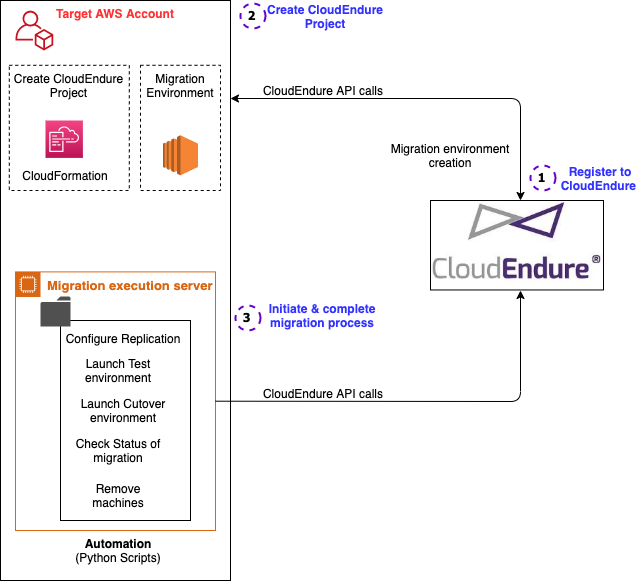
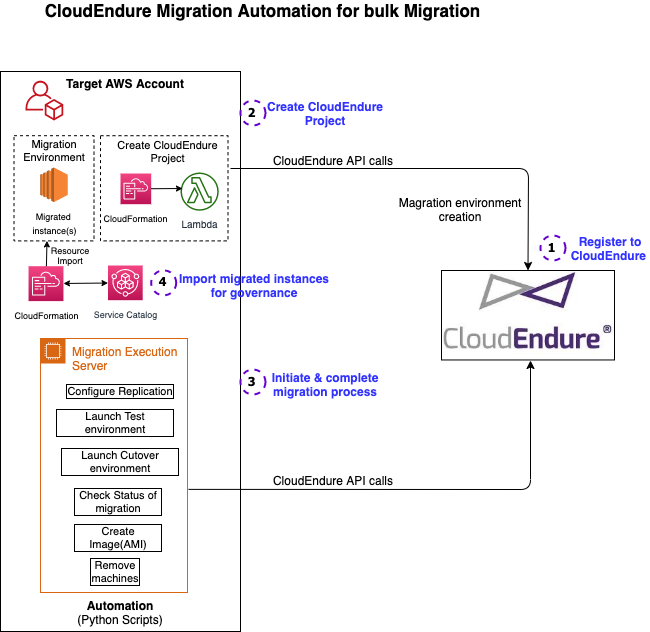
added migrated instance adoption in to CloudFormation functionality

Changed region(s): [[0.0, 0.0, 1.0, 1.0], [0.4062, 0.7435, 0.625, 0.7745], [0.0625, 0.6506, 0.0938, 0.6816]]

diff --git a/CreateImages.py b/CreateImages.py
@@ -1,0 +1,104 @@
+#Copyright 2008-2019 Amazon.com, Inc. or its affiliates. All Rights Reserved.
+
+#Permission is hereby granted, free of charge, to any person obtaining a copy of this
+#software and associated documentation files (the "Software"), to deal in the Software
+#without restriction, including without limitation the rights to use, copy, modify,
+#merge, publish, distribute, sublicense, and/or sell copies of the Software, and to
+#permit persons to whom the Software is furnished to do so.
+
+#THE SOFTWARE IS PROVIDED "AS IS", WITHOUT WARRANTY OF ANY KIND, EXPRESS OR IMPLIED,
+#INCLUDING BUT NOT LIMITED TO THE WARRANTIES OF MERCHANTABILITY, FITNESS FOR A
+#PARTICULAR PURPOSE AND NONINFRINGEMENT. IN NO EVENT SHALL THE AUTHORS OR COPYRIGHT
+#HOLDERS BE LIABLE FOR ANY CLAIM, DAMAGES OR OTHER LIABILITY, WHETHER IN AN ACTION
+#OF CONTRACT, TORT OR OTHERWISE, ARISING FROM, OUT OF OR IN CONNECTION WITH THE
+#SOFTWARE OR THE USE OR OTHER DEALINGS IN THE SOFTWARE.
+
+from __future__ import print_function
+import sys
+import requests
+import json
+import yaml
+import os
+import boto3
+import datetime
+from botocore.exceptions import ClientError
+
+def createimage(session, headers, endpoint, HOST, projectname, configfile, region):
+           
+    r = requests.get(HOST + endpoint.format('projects'), headers=headers, cookies=session)
+    if r.status_code != 200:
+        print("ERROR: Failed to fetch the project....")
+        sys.exit(1)
+    try:
+        # Get Project ID
+        projects = json.loads(r.text)["items"]
+        project_exist = False
+        for project in projects:
+            if project["name"] == projectname:
+               project_id = project["id"]
+               project_exist = True
+        if project_exist == False:
+            print("ERROR: Project Name does not exist....")
+            sys.exit(2)
+    except:
+        print(sys.exc_info())
+        sys.exit(6)
+        
+    with open(os.path.join(sys.path[0], configfile), 'r') as ymlfile:
+     config = yaml.load(ymlfile, yaml.FullLoader)
+    
+    migration_wave = config["project"]["waves"]
+              
+    m = requests.get(HOST + endpoint.format('projects/{}/machines').format(project_id), headers=headers, cookies=session)
+    
+    data = json.loads(m.text)["items"]
+    machinelist = {}
+    machine_exist = False
+    
+    for machine in data:
+      machinelist[machine['id']] = machine['sourceProperties']['name']
+      machine_name=machine['sourceProperties']['name']
+      r_id=machine['replica']
+      
+      r = requests.get(HOST + endpoint.format('projects/{}/replicas/{}').format(project_id, r_id), headers=headers, cookies=session)
+      replicas = json.loads(r.text)
+      instance_id = replicas['machineCloudId']
+      machine_exist = True
+      try:
+          ec2_client = boto3.client("ec2", region_name=region)
+      except ClientError as e:
+          print("Unexpected error(Make sure you have entered correct AWS region & AWS credentials available on machine): %s" % e)
+          return
+      
+      timestamp = datetime.datetime.utcnow().strftime('%Y%m%d')
+      try:
+          image = ec2_client.create_image(InstanceId=instance_id, Name=machine_name+'-'+timestamp, Description='Image of CloudEndure migrated instance: '+machine_name,
+                                         NoReboot=True,
+                                         TagSpecifications=[
+                                            {
+                                                'ResourceType': 'image',
+                                                'Tags': [
+                                                    {
+                                                        'Key': 'Name',
+                                                        'Value': machine_name
+                                                    },
+                                                    {
+                                                        'Key': 'instance',
+                                                        'Value': instance_id
+                                                    },
+                                                    {
+                                                        'Key': 'migration-wave',
+                                                        'Value': migration_wave
+                                                    },                                                
+                                                ]
+                                            },
+                                        ]
+                                        )
+          print("Image creation initiated for "+ machine_name + " with image id: " + image['ImageId'])  
+      except:
+          print("Create AMI failed")
+      
+    if machine_exist == False:
+        print ('There are no machines launched in cutover mode. No instances available to create image.')
+        return
+          

diff --git a/CloudEndure.py b/CloudEndure.py
@@ -18,6 +18,7 @@ import sys
 import argparse
 import Machine
 import UpdateProject
+import CreateImages
 import requests
 import json
 import StatusCheck
@@ -66,6 +67,8 @@ def main(arguments):
     parser.add_argument('--statuscheck', default="No")
     parser.add_argument('--cleanup', default="No")
     parser.add_argument('--dryrun', default="No")
+    parser.add_argument('--createimage', default="No")
+    parser.add_argument('--region', default="")    
     args = parser.parse_args(arguments)
     
     print("************************")
@@ -85,7 +88,19 @@ def main(arguments):
     if args.dryrun != "No" and args.dryrun != "Yes":
         print("ERROR: Please type '--dryrun Yes' if you want to validate your production YAML file....")
         sys.exit(3)
-    
+
+    if args.createimage != "No" and args.createimage != "Yes":
+        print("ERROR: Please type '--createimage Yes' if you want to create Amazon EC2 Images(AMI) of the target instances....")
+        sys.exit(5)
+
+    if  args.createimage=="Yes" and args.region =="":
+        print("ERROR: Please provide valid ('--region <aws_region_name>') aws region(ex. us-west-1) to create EC2 Images(AMI) of the target instances....")
+        sys.exit(6)        
+
+    if  args.createimage=="Yes" and args.region != "":
+        CreateImages.createimage(session, headers, endpoint, HOST, args.projectname, args.configfile, args.region)
+        sys.exit(7)
+            
     if args.launchtype == "test" or args.launchtype =="cutover":
            if args.statuscheck == "No":
                Machine.execute(args.launchtype, session, headers, endpoint, HOST, args.projectname, args.configfile, args.dryrun)

diff --git a/UpdateProject.py b/UpdateProject.py
@@ -25,7 +25,7 @@ def update(session, headers, endpoint, HOST, projectname, configfile):
     with open(os.path.join(sys.path[0], configfile), 'r') as ymlfile:
             config = yaml.load(ymlfile, yaml.FullLoader)
     r = requests.get(HOST + endpoint.format('projects'), headers=headers, cookies=session)
-    print(r.text)
+
     if r.status_code != 200:
         print("ERROR: Failed to fetch the project....")
         sys.exit(1)
@@ -51,9 +51,9 @@ def update(session, headers, endpoint, HOST, projectname, configfile):
             replication["subnetId"] = config["replication"]["subnetID"]
             replication["replicatorSecurityGroupIDs"] = config["replication"]["securitygroupIDs"]
             eresult = requests.patch(HOST + url, data=json.dumps(replication), headers=headers, cookies=session)
-            print(eresult.status_code)
+
             if eresult.status_code == 200:
-               print("Encryption Key and replication server updated for project: " + projectname + "....")
+               print("Success - Encryption Key and replication server updated for project: " + projectname + "....")
             elif eresult.status_code == 400:
                print("ERROR: Updating Encryption key or replication server failed....")
                print("There is a conflict in the replication configuration. This can be due to: subnet ID which does not exist in the region, \

diff --git a/README.md b/README.md
@@ -1,5 +1,5 @@
 
-# Automated bulk AWS migration using CloudEndure 
+# Automated bulk AWS migration using CloudEndure & adoption of migrated servers into ServiceCatalog products
 Generally as a part of migration we want to migrate the application ecosystem. We select applications and start migrating them one by one.
 This project is built for the same purpose, where you will select a specific application with number of servers for migration.
 You can select the specific application servers to migrate and after migration, you might re-architect the application hosted on them as per your modernization road map.
@@ -15,7 +15,7 @@ The python scripts are referenced from the [automating-aws-migration-with-cloude
 
 **The script will return an error if one of the following conditions is met:**
 
-The major advantage of this solution is, with CloudEndure console you can not enforce some of the below mentioned check which are very useful when you want to migrate many servers.
+*The major advantage of this solution is, with CloudEndure console you can not enforce some of the below mentioned checks which are very useful when you want to migrate many servers.*
 
 - Launch type is cutover but the server has not been migrated to the test environment.
 - Launch type is cutover but the server has been migrated to the production environment already.
@@ -23,6 +23,12 @@ The major advantage of this solution is, with CloudEndure console you can not en
 - Migrate a server with more than 180 minutes lag.
 - Use an incorrect machine name or project name.
 - Launch a machine that hasn’t completed the initial replication.
+
+## Automated management of servers after migration using CloudFormation import and ServiceCatalog adoption
+
+Once the servers are migrated to AWS, you can import those servers into cloudFormation stack. And then ServiceCatalog products can be created from it.
+Hence you can now add Service Catalog governance to the migrated servers. Once imported into Service Catalog, administrators can manage stack updates, govern parameters, and enforce tagging. Also you can add/update the additional parameters to the migrated server such as Security group, IAM roles, tags etc. in automated way.
+More details can be found 1. [here](https://aws.amazon.com/blogs/aws/new-import-existing-resources-into-a-cloudformation-stack/) & 2. [here](https://aws.amazon.com/about-aws/whats-new/2020/11/aws-customer-can-now-use-aws-service-catalog-stack-import-to-add-governance/)
 
 ## Prerequisites
 
@@ -64,36 +70,37 @@ If you have servers to be migrated in different AWS accounts, please repeat belo
 - Download the CloudEndureProjectLambda Lambda zip file from below link. https://marketplace-sa-resources.s3.amazonaws.com/ctlabs/migration/CloudEndureProjectLambda.zip
 - Create a s3 bucket to upload the Lambda function zip file. This bucket will be referred in next step.
 - Download the file **CreateCloudEndureProject.yml** from above list of files.
-- Navigate to AWS CloudFormation console and **Create Stack** using the cloudformation template(from the repo) **CreateCloudEndureProject.yml**. Pass the above bucket as a parameter for lambda.
+- Navigate to AWS CloudFormation console and **Create Stack** using the cloudformation template(from the repo) **CreateCloudEndureProject.yml**. Pass the above bucket name as a parameter for lambda code.
 - Once the stack is created, it will create a CloudEndure project, IAM user & KMS key in AWS account. Note the KMS Key ARN from stack output.
 - The created CloudEndure project will be linked to the AWS account from which it is created. 
 
 ### 2. Create Migration execution server
 - Download the file **MigrationExecutionServer.yml** from above list of files.
-- Make sure you are in Target AWS account with correct region. Create stack using CloudFormation template(from the repo) **MigrationExecutionServer.yml**. This will launch a Amazon Linux ec2 instance with required migration scripts. Make sure this server has access to internet to copy the 
+- Make sure you are in **Target AWS account** with correct region. Create stack using CloudFormation template(from the repo) **MigrationExecutionServer.yml**. This will launch a Amazon Linux ec2 instance with required migration scripts. Make sure this server has access to internet to copy the 
 scripts from the github repository as well as to call the CloudEndure APIs.
 - The migration scripts(from the github) will be downloaded at bootstrapping of the ec2 at the location `/home/ec2-user/`.
 
 ### 3. Config files preparation
-- Make sure you already have a target VPC created in target AWS account where you will migrate the servers. Identify the public and private subnets where migrated servers will be launched.
+- Make sure you already have a target VPC created in target AWS account where you will migrate the servers. Identify the public and private subnets where target servers will be launched.
 - Please change below configuration files on the Migration execution server we launched in previous step.
 - Login to Migration Execution server via ssh with EC2 key and user as `ec2-user`. Change directory to `/home/ec2-user/bulk-aws-migration-using-cloudendure-automation-main`. (If you don't see the repository folder then please download using below command.)
 `wget https://github.com/aws-samples/bulk-aws-migration-using-cloudendure-automation/archive/main.zip` 
-- **config-projects.yml** - To update the Replication Settings, edit this file with subnetID(Get from VPC console), target encryption key, securitygroupIDs. Get last two values from step#1 cloudformation stack output section.
-- **config-test.yml** - Edit this file to add test server details. Update the subnet and security group IDs for the test environment(copy from target AWS account).
-- **config-cutover.yml** - Edit this file to add Production server details. Need to change the security groups and subnet IDs to the one in your production VPC. This file is similar to the Config-test.yml but will have final configuration of the servers'(end migration state). 
+- **config-projects.yml** - To update the Replication Settings, edit this file with subnetID(Get from VPC console), target encryption key, securitygroupIDs. Get the securitygroupIDs value from step#1 cloudformation stack output section.
+- **config-test.yml** - Edit this file to add test server details. Update the subnet and security group IDs for the test environment(copy from target AWS account). The machine count and machine numbers sections(ex. machine1...n) MUST be in synch.
+- **config-cutover.yml** - Edit this file to add Production server details. Need to change the security groups and subnet IDs to the one in your production VPC. This file is similar to the Config-test.yml but will have final configuration of the servers'(end migration state). The machine count and machine numbers sections(ex. machine1...n) MUST be in synch.
+- Make sure that all the config files are updated with correct data as they will be used in next steps.
 
 ### 4. Create Replication settings & Generate API token
-- Login to CloudEndure and in **Setup & Info** > **Replication Settings**, configure fields like **Migration Source** to 'Other Infrastructure', **Migration Target** to the AWS region where the target machine will be running, **Replication Server instance type** to Default or any other type you want, **Converter instance type** to Default, check **dedicated Replication Server** option and keep other things as it is. We will change the Subnet, Security group and Encryption Key in next step via script.
-- In CloudEndure console, click **Setup & Info** and choose **Other Settings**. Next, scroll down to the bottom. If the **API token** does not exist, click the **Generate New** Token button at the right bottom. Do not use the installation token, which is for agent installation only. 
-- Update the Replication settings.(Run on Migration Execution server) \
+- Login to CloudEndure and in **Setup & Info** > **Replication Settings**, configure fields like **Migration Source** to 'Other Infrastructure', **Migration Target** to the AWS region where the target machine should be migrated, **Replication Server instance type** to Default or any other type you want, **Converter instance type** to Default, check **dedicated Replication Server** option and keep other things as it is and click **SAVE REPLICATION SETTINGS** button. We will change the Subnet, Security group and Encryption Key in next step via script.
+- In CloudEndure console, click **Setup & Info** and choose **OTHER SETTINGS**. Copy and note the project name for next steps. Next, scroll down to the bottom. If the **API token** does not exist, click the **Generate New** Token button at the right bottom. Copy and note the API Token. Do not use the installation token, which is for agent installation only. Now the CloudEndure initial settings are complete.
+- Next, update the Replication settings via scripts. Login to Migration Execution server and run \
 `python3 CloudEndure.py --userapitoken <APIToken> --projectname <project name> --configfile config-projects.yml --updateproject Yes`
 
 ### 5. Install CloudEndure Agent
 - Go to CloudEndure and click on **Machines**. Copy the agent installation commands for source machines depending on the OS type.
-- Goto the source **Machines** and install the CloudEndure agent on them.
-- As soon as the agent is installed, the machine will start the replication to CloudEndure. These machines will start appearing on the CloudEndure console.
-- Wait until the DATA REPLICATION PROGRESS show as 'Continuous Data Replication'. This is indication to carry next steps.
+- Goto the migration source machines and install the CloudEndure agent on each of them.
+- As soon as the agent is installed, the machine will start the replication to CloudEndure. These machines will start appearing on the CloudEndure console. Make sure that all the servers of that 'wave' appear on CloudEndure. If not recheck that the agent is installed successfully and the server has egress(firewall) rule open to connect to CloudEndure.
+- **Wait** until the DATA REPLICATION PROGRESS show as 'Continuous Data Replication'. This might take 15 minutes to 120 minutes, depending on the size of server, bandwidth etc. This is indication to carry next steps.
 
 
 ### 6. Launch Test environment
@@ -104,7 +111,8 @@ scripts from the github repository as well as to call the CloudEndure APIs.
 `python3 CloudEndure.py --userapitoken <APIToken> --projectname <project name> --configfile config-test.yml --launchtype test`
 - Check the status of launch \
 `python3 CloudEndure.py --userapitoken <APIToken> --projectname <project name> --configfile config-test.yml --launchtype test --statuscheck Yes`
-- When Test environment launch is complete, please test the servers and application on it. If everything is OK, move ahead to launch the production environment(final).
+(The progress is also visible on CloudEndure console > Job progress)
+- When Test environment launch is complete, go to the target AWS account and test the servers, applications on it. If everything is OK, move ahead to launch the production environment(final).
 
 ### 7. Launch the Production Environment
  Like above, run the below commands on Migration Execution server for final end state Production environment.
@@ -115,12 +123,42 @@ scripts from the github repository as well as to call the CloudEndure APIs.
 `python3 CloudEndure.py --userapitoken <APIToken> --projectname <project name> --configfile config-cutover.yml --launchtype cutover`
 - Check the status of launch \
 `python3 CloudEndure.py --userapitoken <APIToken> --projectname <project name> --configfile config-cutover.yml --launchtype cutover --statuscheck Yes`
-- Test the final production servers. 
+(The progress is also visible on CloudEndure console > Job progress)
+- Test the final production servers for application functionality. 
 
-### 8. Clean up
+### 8. Create Images(AMI) of migrated servers
+Once you confirm that the servers are migrated correctly, use below command to create the images(AMI) of them.
+- Goto migration execution server and run below command \
+`python3 CloudEndure.py --userapitoken <APIToken> --projectname <project name> --configfile config-cutover.yml --createimage Yes --region <aws_region>`
+- This will trigger the image creation for all the servers in that wave which are launched in 'cutover' mode. You can check the **AWS ec2 console > AMIs** for the list of images. The images are named after the server names it created from and also contains additional tags for identification.
+- These images will be used in further steps to create the CloudFormation stacks of the migrated servers. 
+
+### 9. Create the CloudFormation template for migrated servers
+Once the servers are migrated to AWS, we recommend to manage them with automation using CloudFormation and AWS ServiceCatalog. As AWS CloudFormation provides the functionality to adopt the existing resources as a CloudFormation template, you can manage these migrated server as Infrastructure as a code(IaaC). The CloudFormation stack will be used to create the Service Catalog product to provide self-service functionality. Also you can configure more parameters for the migrated server via CloudFormation and ServiceCatalog. Also this can be used to replicate the migrated servers as needed.
+ - To create the CloudFormation stack for each server migrated, use the file **MigratedEc2Import.yml** and edit as per the current and required configurations for that particular migrated instance. 
+ - In target AWS account, goto **CloudFormation > Create Stack > With existing resources (import resources)**. Progress through the wizard. In second screen, specify the template which was edited in earlier step.
+ - In **Identify Resources** screen, enter the network interface id and EC2 instance id of the instance for which you are created the stack.
+ - In **Specify stack details** window enter the additional details for the ec2 instance. These details will be same from the current ec2 instance. But the image id should be taken from the image we created in previous step. Click Next.
+ - Review the **Import overview** screen and click on **Import resources**. This will trigger the import stack creation.
+ - If everything goes well, you will see the status as **IMPORT_COMPLETE** which means success.
+ - Goto the Stack info tab and copy the Stack ID. We will use the stack ID of the above imported stack to create the ServiceCatalog product.
+ - To create the import stack for each migrated server, repeat the above steps for each one of them. This will create as many imported stack as you have migrated servers.
+ 
+### 10. Create ServiceCatalog Portfolio and product
+- Goto **ServiceCatalog** console in target AWS account. From the left panel goto **Administration** > **Products**. On right side, click on **Upload new product**.
+- Fill the Product name and all the details. In **Version details** section , choose **Use an existing Cloudformation Stack**.
+- Enter the ARN of CloudFormation stack ID copied in earlier steps. Fill the remaining details and create the product.
+- Then from the left panel , click on **Portfolios** and create a portfolio if you don't have any. 
+- Click on the new portfolio and on the **Products** tab, click on **Add product to portfolio**. Select the product we created in earlier step and add it to portfolio.
+- Click on that portfolio and assign the correct permission(user, role) to it from the tab **Groups, roles, and users**. This will enable the assigned end users/roles to launch the product inside it.
+- You need to repeat above steps for each product you created(i.e. for each migrated server). You can add all the products in single portfolio or create separate portfolio depending upon your structure.
+- Once all the servers are imported with CloudFormation and have their ServiceCatalog products ready, the end users can go and launch them if needed. With this method you can bring the migrated servers under the governance with automated administration. 
+
+### 11. Clean up
 - After complete migration, run the following command to remove machines from the CloudEndure console. This command will not terminate machines from AWS. \
 `python3 CloudEndure.py --userapitoken <APIToken> --projectname <project name> --configfile config-cutover.yml --cleanup Yes`
-- If you have DONE with all your servers migrated to AWS, you can delete the CloudFormation stack for CloudEndureProject creation(step# 1) and Migration execution Server(step# 2) setup.
+- If you have DONE with all your servers migrated to AWS, you can delete the CloudFormation stack for CloudEndureProject creation(step# 1) and Migration execution Server(step# 2) stack.
+- Also it is safe to terminate the CloudEndure Replication servers(ec2) which are running in target account.
 
 
 ## Security
